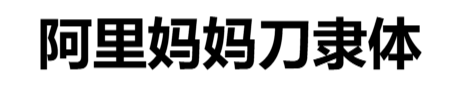
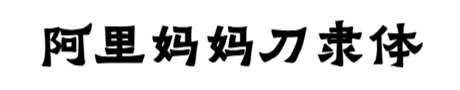
更改编辑元素字体

Changed region(s): [[0.0609, 0.1778, 0.9435, 0.8]]

diff --git a/src/components/EditorControl/FontControl/components/FontFamilyChoose.vue b/src/components/EditorControl/FontControl/components/FontFamilyChoose.vue
@@ -1,0 +1,76 @@
+<template>
+  <div class="font-family">
+    <div class="label" @click="backAc">
+      <span><svg-icon icon="zuojiantou"></svg-icon></span>
+      <span>字体</span>
+    </div>
+    <div class="list">
+      <div
+        :class="['item', useFontFamilyCode === key ? 'active' : '']"
+        v-for="(val, key) in fontFamilyCodeMap"
+        @click="chooseFontFamiyAc(key)"
+      >
+        <div class="bg" :style="{ backgroundImage: `url(/src/assets/img/font/${val}.png)` }"></div>
+      </div>
+    </div>
+  </div>
+</template>
+
+<script setup>
+import { ref, onMounted } from 'vue'
+import SvgIcon from '@/components/common/SvgIcon.vue'
+import { fontFamilyCodeMap } from '@/assets/data/staticData'
+import { useCommonStore } from '@/store/common'
+const commonStore = useCommonStore()
+const editTarget = commonStore.editTarget
+const editor = commonStore.editor
+const model = defineModel()
+const useFontFamilyCode = ref()
+const backAc = () => {
+  model.value = false
+}
+const chooseFontFamiyAc = (key) => {
+  if (key !== 'DEFAULT') {
+    editTarget.set({
+      fontFamily: key
+    })
+  } else {
+    editTarget.set({
+      fontFamily: ''
+    })
+  }
+  // 更新当前编辑对象字体类型CODE
+  editTarget.fontFamilyCode = key
+  useFontFamilyCode.value = key
+  editor.renderAll()
+}
+onMounted(() => {
+  useFontFamilyCode.value = editTarget.fontFamilyCode
+})
+</script>
+
+<style scoped>
+.font-family {
+  .label {
+    margin-bottom: 15px;
+  }
+  .list {
+    .item {
+      margin-bottom: 10px;
+      background: #eee;
+      border-radius: 5px;
+      cursor: pointer;
+      border: 2px solid transparent;
+      &.active {
+        border-color: var(--el-color-primary);
+      }
+      .bg {
+        width: 230px;
+        height: 45px;
+        background-size: contain;
+        margin: 0 auto;
+      }
+    }
+  }
+}
+</style>

diff --git a/src/components/EditorControl/FontControl/FontControl.vue b/src/components/EditorControl/FontControl/FontControl.vue
@@ -1,5 +1,6 @@
 <template>
-  <div class="font-control">
+  <FontFamilyChoose v-if="isChooseFont" v-model="isChooseFont"></FontFamilyChoose>
+  <div class="font-control" v-else>
     <div class="label">
       <span>字体编辑</span>
     </div>
@@ -9,7 +10,7 @@
         class="bg"
         :style="{ backgroundImage: `url(/src/assets/img/font/${fontFamilyCodeMap[editTarget.fontFamilyCode]}.png)` }"
       ></div>
-      <div class="label">
+      <div class="label" @click="isChooseFont = true">
         <span>字体</span>
         <svg-icon icon="xiajiantoucu"></svg-icon>
       </div>
@@ -21,26 +22,12 @@
 import { ref, onMounted } from 'vue'
 import SvgIcon from '@/components/common/SvgIcon.vue'
 import BaseEdit from './components/BaseEdit.vue'
+import FontFamilyChoose from './components/FontFamilyChoose.vue'
 import { useCommonStore } from '@/store/common'
+import { fontFamilyCodeMap } from '@/assets/data/staticData'
+const isChooseFont = ref(false)
 const commonStore = useCommonStore()
 const editTarget = commonStore.editTarget
-const fontFamilyCodeMap = {
-  DEFAULT: 'default'
-}
-const baseEdit = [
-  {
-    label: '透明度',
-    icon: 'toumingdu'
-  },
-  {
-    label: '创建副本',
-    icon: 'chuangjianfuben'
-  },
-  {
-    label: '删除',
-    icon: 'icdelete'
-  }
-]
 onMounted(() => {
   console.log(editTarget.fontFamilyCode)
 })

diff --git a/src/views/main.vue b/src/views/main.vue
@@ -194,7 +194,6 @@ const initEditor = () => {
     commonStore.editTarget = markRaw(selected[0])
     // 区分选中元素类型以显示不同编辑控件
     if (selected[0].text) {
-      console.log(selected[0].fontFamilyCode)
       commonStore.editorControlType = ['TEXT']
     }
   })

diff --git a/src/assets/data/staticData.js b/src/assets/data/staticData.js
@@ -1,0 +1,4 @@
+export const fontFamilyCodeMap = {
+  DEFAULT: 'default',
+  DaoLiTi: 'daoliti'
+}
